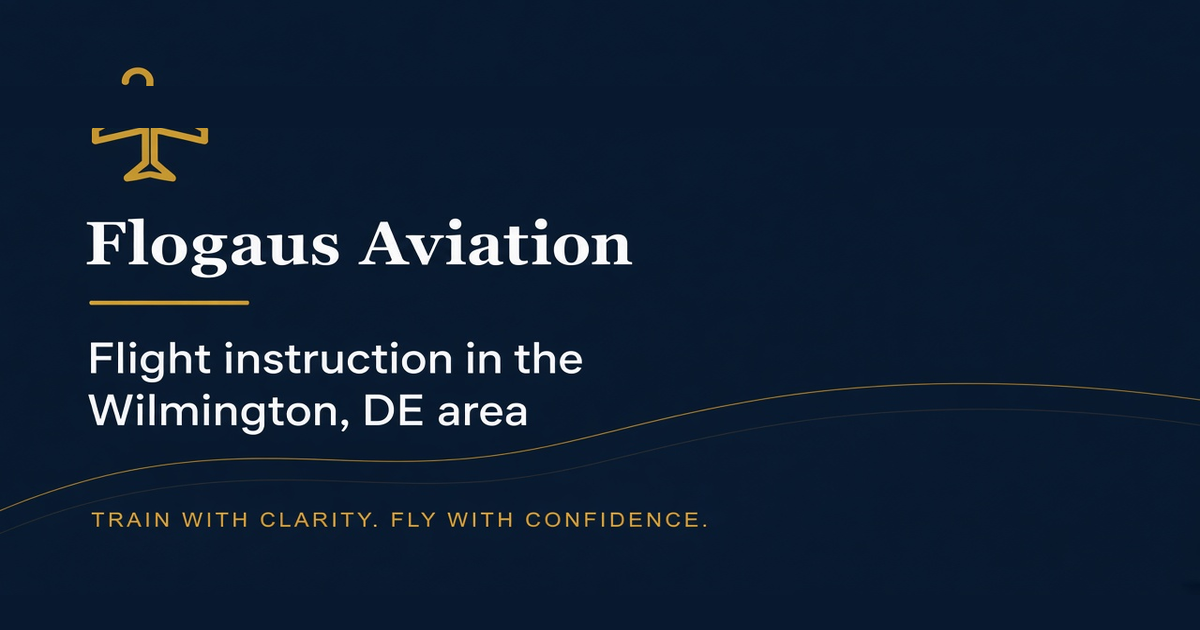
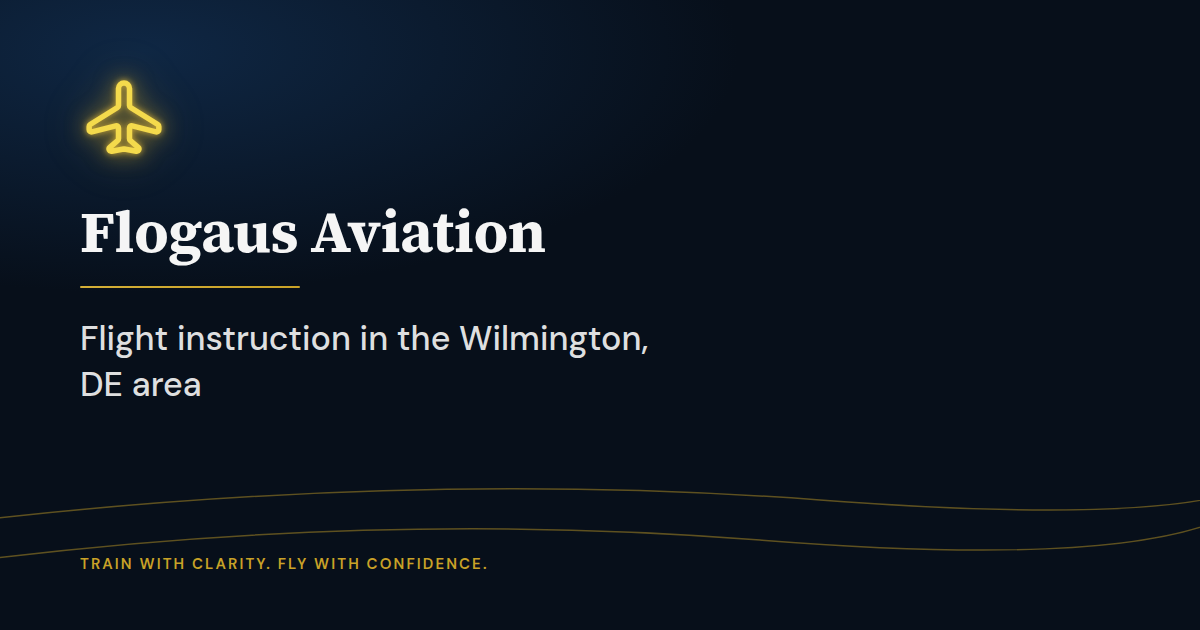
Regenerate OG image from header airplane.svg source
Render 1200x630 via headless Chrome template using public/airplane.svg
and the same gold filter as header__brand-mark, with proper spacing and
typography—no pixel slicing from prior PNGs.

diff --git a/scripts/og-image-template.html b/scripts/og-image-template.html
@@ -1,0 +1,125 @@
+<!doctype html>
+<html lang="en">
+  <head>
+    <meta charset="UTF-8" />
+    <title>OG image render</title>
+    <link rel="preconnect" href="https://fonts.googleapis.com" />
+    <link rel="preconnect" href="https://fonts.gstatic.com" crossorigin />
+    <link
+      href="https://fonts.googleapis.com/css2?family=DM+Sans:wght@500;600&family=Source+Serif+4:wght@600;700&display=swap"
+      rel="stylesheet"
+    />
+    <style>
+      * {
+        box-sizing: border-box;
+        margin: 0;
+        padding: 0;
+      }
+
+      html,
+      body {
+        width: 1200px;
+        height: 630px;
+        overflow: hidden;
+      }
+
+      body {
+        font-family: "DM Sans", system-ui, sans-serif;
+        color: #f5f5f5;
+        background: radial-gradient(ellipse 90% 70% at 12% 8%, #0f2744 0%, #070f1a 55%, #070f1a 100%);
+        background-color: #070f1a;
+      }
+
+      .frame {
+        position: relative;
+        width: 1200px;
+        height: 630px;
+        padding: 72px 80px;
+      }
+
+      .brand-mark {
+        width: 88px;
+        height: 88px;
+        display: block;
+        object-fit: contain;
+        filter: brightness(0) saturate(100%) invert(78%) sepia(58%) saturate(480%) hue-rotate(2deg)
+          brightness(104%) contrast(91%) drop-shadow(0 0 3px rgba(212, 175, 55, 0.95))
+          drop-shadow(0 0 10px rgba(201, 162, 39, 0.55)) drop-shadow(0 0 20px rgba(201, 162, 39, 0.3));
+      }
+
+      .title {
+        margin-top: 40px;
+        font-family: "Source Serif 4", Georgia, serif;
+        font-size: 58px;
+        font-weight: 700;
+        line-height: 1.1;
+        letter-spacing: -0.01em;
+      }
+
+      .rule {
+        margin-top: 22px;
+        width: 220px;
+        height: 2px;
+        background: linear-gradient(90deg, #d4af37, #c9a227);
+        border-radius: 1px;
+      }
+
+      .subtitle {
+        margin-top: 28px;
+        max-width: 620px;
+        font-size: 34px;
+        font-weight: 500;
+        line-height: 1.35;
+        color: rgba(245, 245, 245, 0.92);
+      }
+
+      .tagline {
+        position: absolute;
+        left: 80px;
+        bottom: 56px;
+        font-size: 15px;
+        font-weight: 600;
+        letter-spacing: 0.14em;
+        text-transform: uppercase;
+        color: #c9a227;
+      }
+
+      .curves {
+        position: absolute;
+        inset: 0;
+        pointer-events: none;
+      }
+
+      .curves path {
+        fill: none;
+        stroke: rgba(201, 162, 39, 0.45);
+        stroke-width: 1.5;
+      }
+    </style>
+  </head>
+  <body>
+    <div class="frame">
+      <svg class="curves" viewBox="0 0 1200 630" aria-hidden="true">
+        <path d="M -20 520 Q 420 470, 820 500 T 1280 470" />
+        <path d="M -20 560 Q 380 510, 760 540 T 1240 510" />
+      </svg>
+      <!-- Same asset as Header.tsx /airplane.svg -->
+      <img
+        class="brand-mark"
+        src="../public/airplane.svg"
+        width="88"
+        height="88"
+        alt=""
+      />
+      <h1 class="title">Flogaus Aviation</h1>
+      <div class="rule" aria-hidden="true"></div>
+      <p class="subtitle">Flight instruction in the Wilmington, DE area</p>
+      <p class="tagline">Train with clarity. Fly with confidence.</p>
+    </div>
+    <script>
+      document.fonts.ready.then(() => {
+        document.body.dataset.ready = "1";
+      });
+    </script>
+  </body>
+</html>
